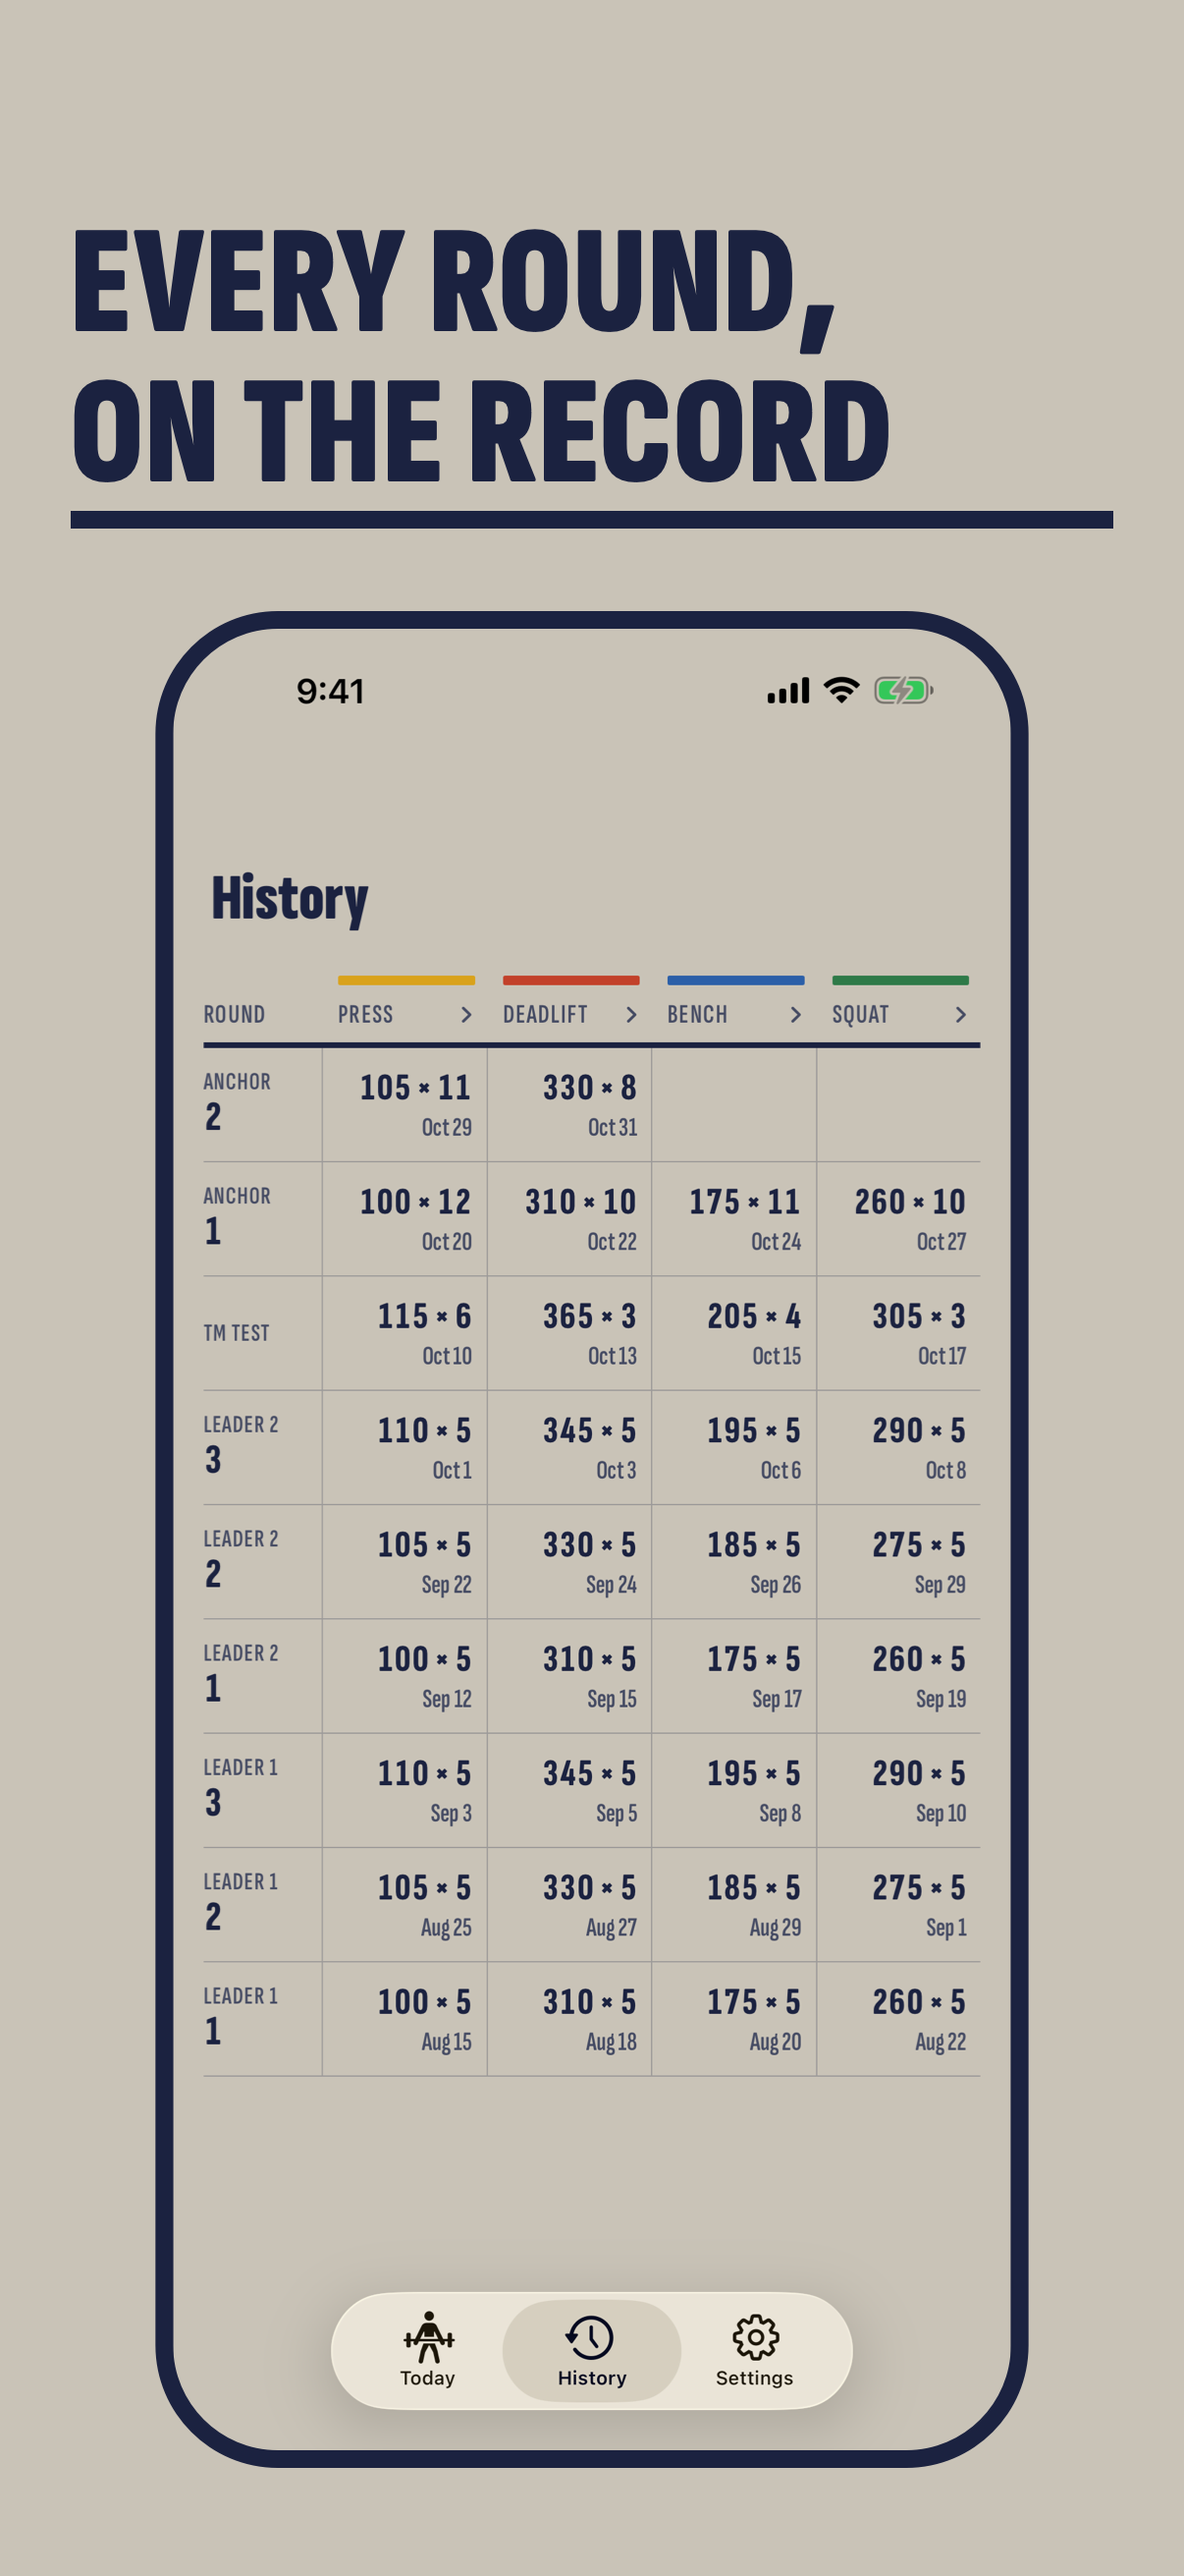
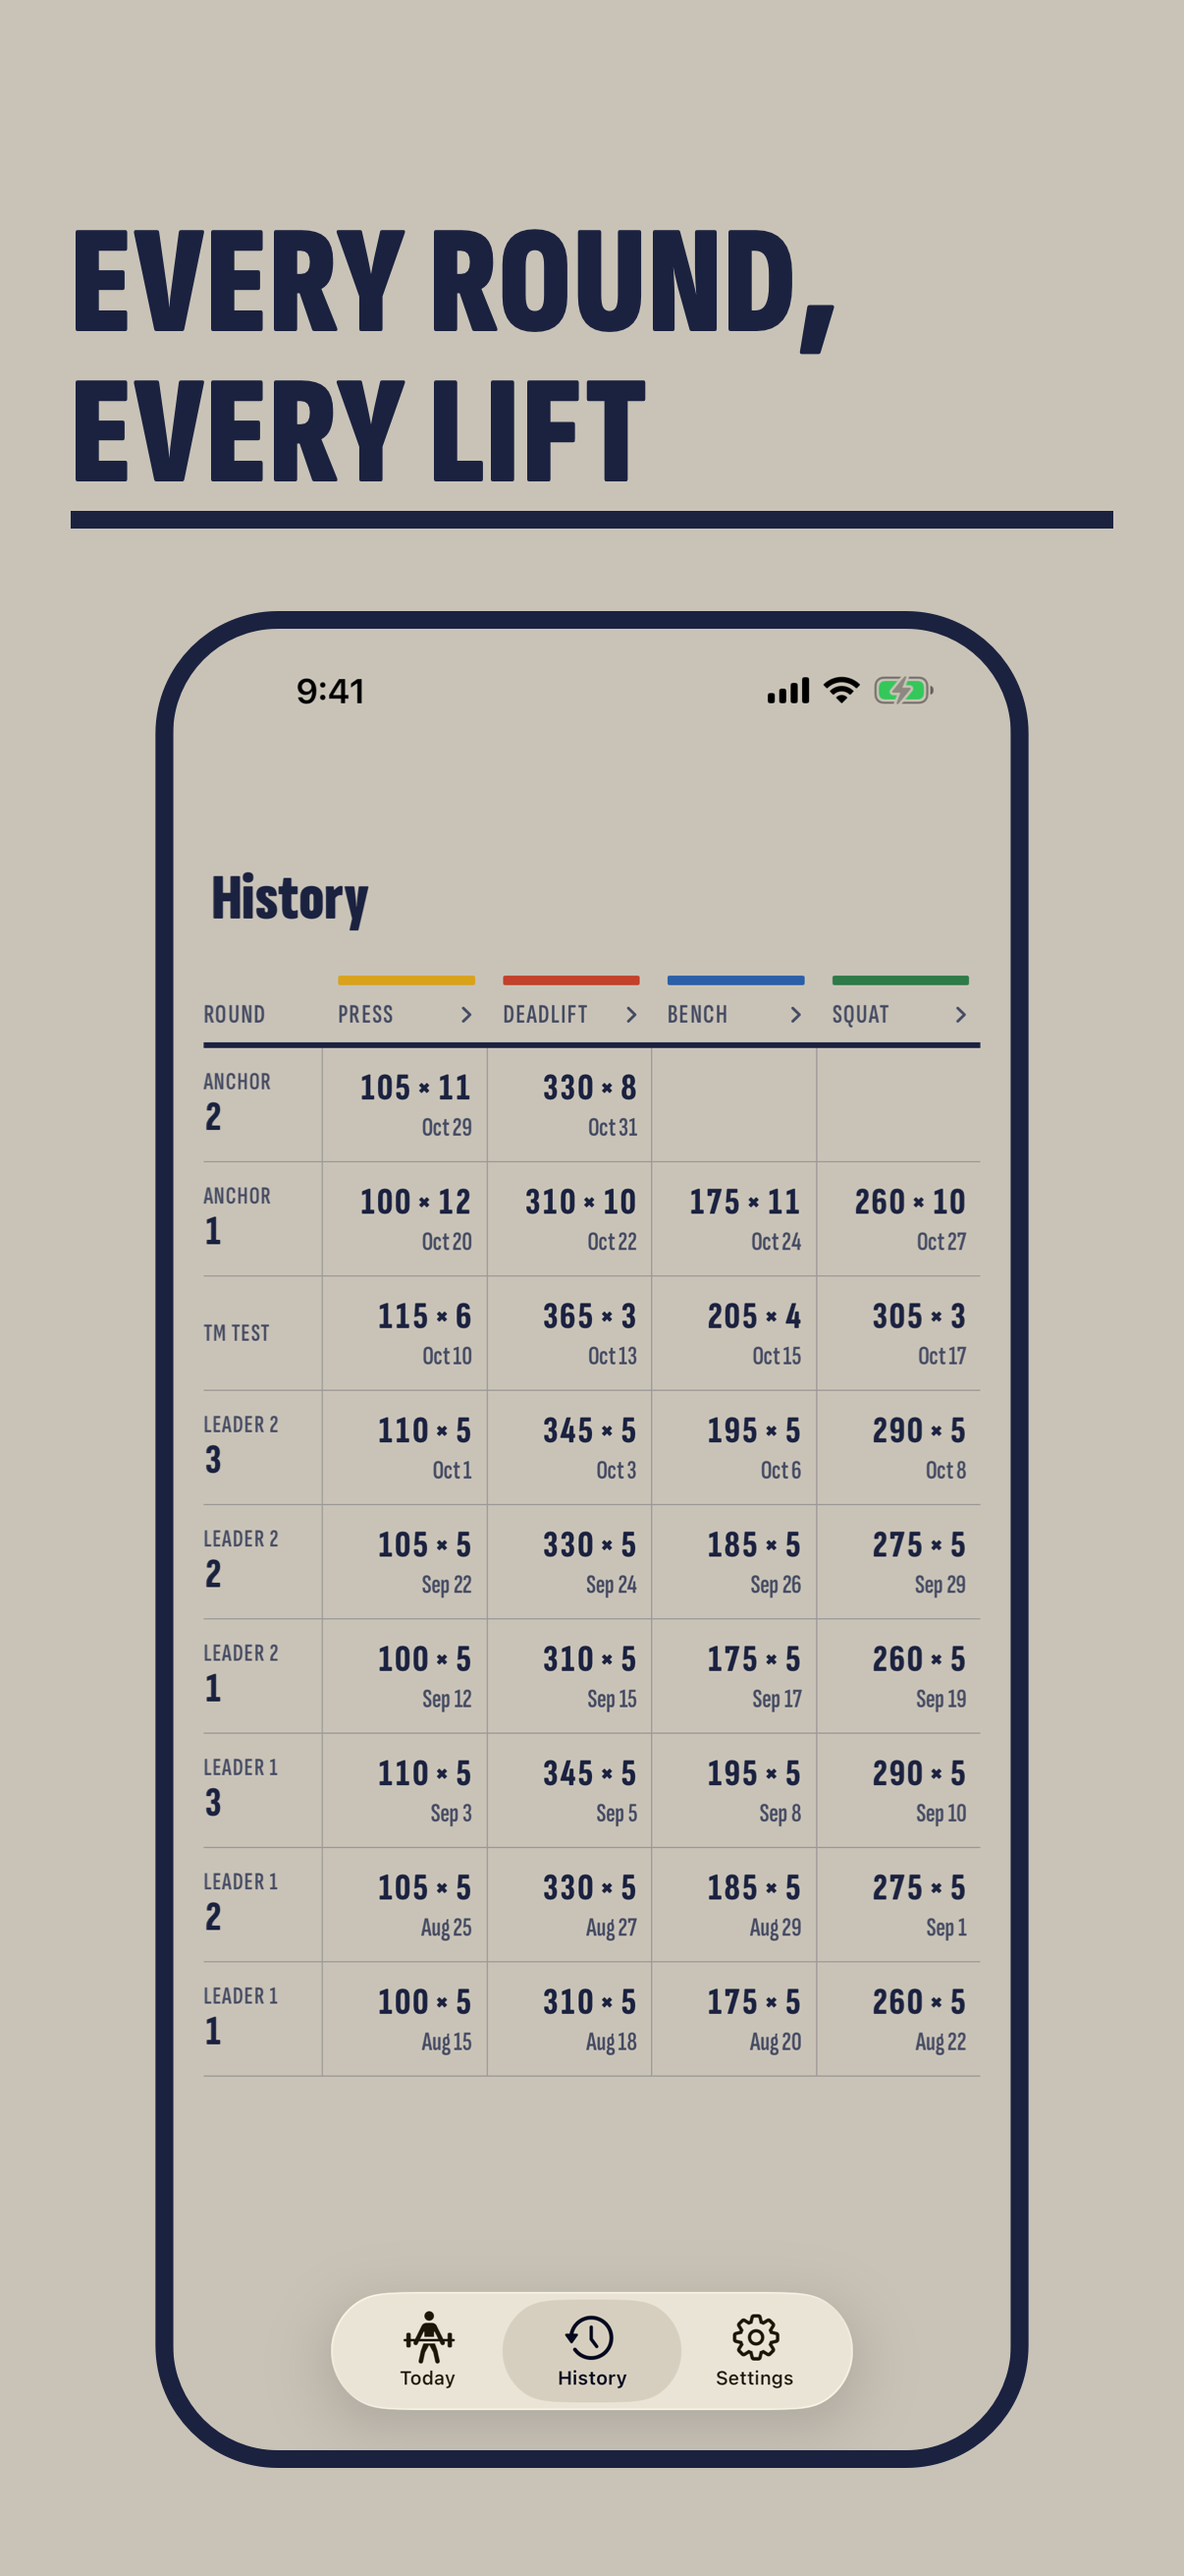
Caption History "Every round, every lift"
The owner's pick for the career table, in place of "Every round, on
the record".

Changed region(s): [[0.0614, 0.1236, 0.767, 0.1854]]

diff --git a/docs/app-store/listing.md b/docs/app-store/listing.md
@@ -86,7 +86,7 @@ Upload these into "iPhone with Dynamic Island (medium display)", the
 |---|---|---|
 | `1-session.png` | Every set, without the math | bench's session at its first main set, rest timer running |
 | `2-today.png` | Know what's next | Today, with bench's anchor session next |
-| `3-history.png` | Every round, on the record | History's career table |
+| `3-history.png` | Every round, every lift | History's career table |
 | `4-deadlift.png` | Watch your max climb | deadlift's chart of PR sets and past estimates |
 | `5-session-dark.png` | Light or dark | the session in dark |
 
